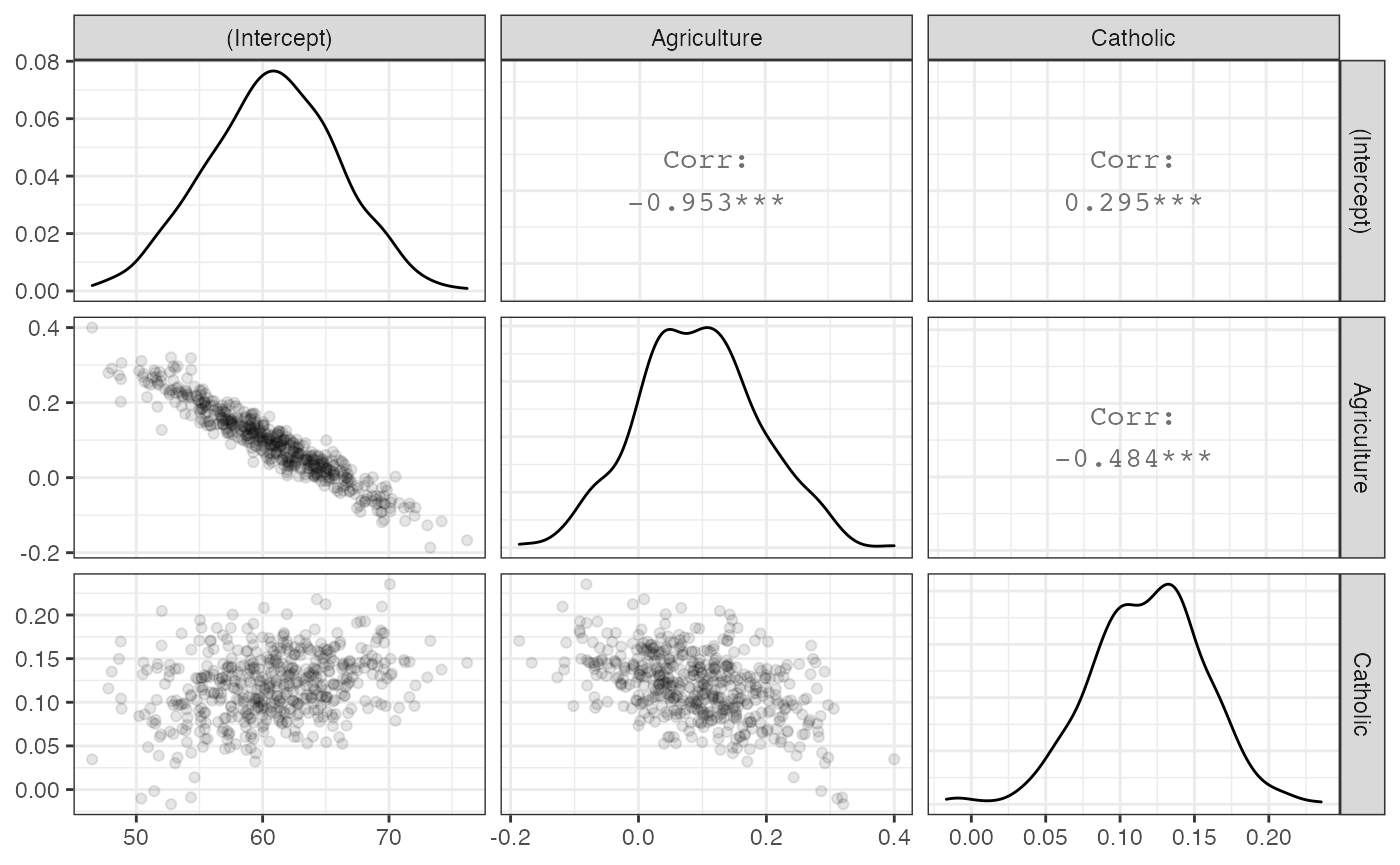
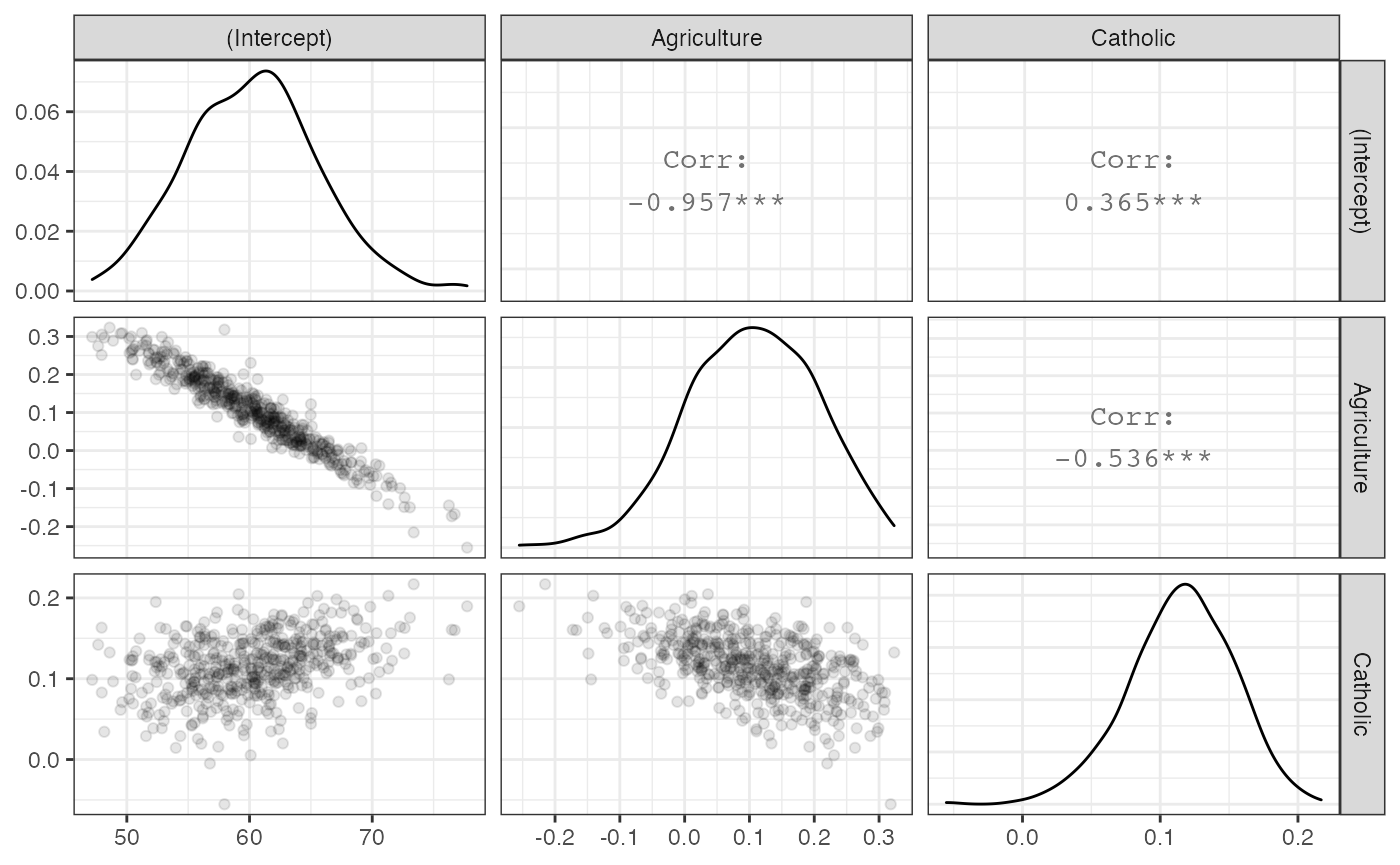
Deploying to gh-pages from  @ 2c4844f8e60dca6c3dedb688495c3db30d2a4b23 🚀

diff --git a/r/estimatr/articles/estimatr-in-the-tidyverse.html b/r/estimatr/articles/estimatr-in-the-tidyverse.html
@@ -269,72 +269,72 @@
 <tr class="odd">
 <td align="left">1</td>
 <td align="left">(Intercept)</td>
-<td align="right">55.5927085</td>
-<td align="right">4.7973099</td>
-<td align="right">11.588309</td>
+<td align="right">54.2903706</td>
+<td align="right">5.0394793</td>
+<td align="right">10.773012</td>
 <td align="right">0.0000000</td>
-<td align="right">45.9243657</td>
-<td align="right">65.2610513</td>
+<td align="right">44.1339673</td>
+<td align="right">64.4467739</td>
 <td align="right">44</td>
 <td align="left">Fertility</td>
 </tr>
 <tr class="even">
 <td align="left">1</td>
 <td align="left">Catholic</td>
-<td align="right">0.1299811</td>
-<td align="right">0.0455386</td>
-<td align="right">2.854308</td>
-<td align="right">0.0065536</td>
-<td align="right">0.0382041</td>
-<td align="right">0.2217580</td>
+<td align="right">0.0727428</td>
+<td align="right">0.0406680</td>
+<td align="right">1.788700</td>
+<td align="right">0.0805493</td>
+<td align="right">-0.0092181</td>
+<td align="right">0.1547038</td>
 <td align="right">44</td>
 <td align="left">Fertility</td>
 </tr>
 <tr class="odd">
 <td align="left">1</td>
 <td align="left">Agriculture</td>
-<td align="right">0.1747347</td>
-<td align="right">0.1115723</td>
-<td align="right">1.566112</td>
-<td align="right">0.1244870</td>
-<td align="right">-0.0501245</td>
-<td align="right">0.3995938</td>
+<td align="right">0.2281144</td>
+<td align="right">0.0944632</td>
+<td align="right">2.414849</td>
+<td align="right">0.0199655</td>
+<td align="right">0.0377363</td>
+<td align="right">0.4184924</td>
 <td align="right">44</td>
 <td align="left">Fertility</td>
 </tr>
 <tr class="even">
 <td align="left">2</td>
 <td align="left">(Intercept)</td>
-<td align="right">57.9421876</td>
-<td align="right">4.3359906</td>
-<td align="right">13.363079</td>
+<td align="right">57.4584574</td>
+<td align="right">7.2761495</td>
+<td align="right">7.896822</td>
 <td align="right">0.0000000</td>
-<td align="right">49.2035727</td>
-<td align="right">66.6808025</td>
+<td align="right">42.7943416</td>
+<td align="right">72.1225732</td>
 <td align="right">44</td>
 <td align="left">Fertility</td>
 </tr>
 <tr class="odd">
 <td align="left">2</td>
 <td align="left">Catholic</td>
-<td align="right">0.1036886</td>
-<td align="right">0.0477308</td>
-<td align="right">2.172360</td>
-<td align="right">0.0352585</td>
-<td align="right">0.0074934</td>
-<td align="right">0.1998838</td>
+<td align="right">0.0856506</td>
+<td align="right">0.0369014</td>
+<td align="right">2.321070</td>
+<td align="right">0.0249788</td>
+<td align="right">0.0112808</td>
+<td align="right">0.1600204</td>
 <td align="right">44</td>
 <td align="left">Fertility</td>
 </tr>
 <tr class="even">
 <td align="left">2</td>
 <td align="left">Agriculture</td>
-<td align="right">0.1481195</td>
-<td align="right">0.0908214</td>
-<td align="right">1.630887</td>
-<td align="right">0.1100526</td>
-<td align="right">-0.0349190</td>
-<td align="right">0.3311580</td>
+<td align="right">0.1846238</td>
+<td align="right">0.1260026</td>
+<td align="right">1.465237</td>
+<td align="right">0.1499659</td>
+<td align="right">-0.0693179</td>
+<td align="right">0.4385654</td>
 <td align="right">44</td>
 <td align="left">Fertility</td>
 </tr>
@@ -348,9 +348,9 @@
 <pre><code>## # A tibble: 3 x 2
 ##   term        boot_se
 ##   &lt;chr&gt;         &lt;dbl&gt;
-## 1 (Intercept)  5.12  
-## 2 Agriculture  0.0947
-## 3 Catholic     0.0379</code></pre>
+## 1 (Intercept)  5.33  
+## 2 Agriculture  0.0996
+## 3 Catholic     0.0383</code></pre>
 <div class="sourceCode" id="cb15"><pre class="downlit sourceCode r">
 <code class="sourceCode R"><span class="co"># To visualize the sampling distribution</span>
 

diff --git a/r/estimatr/articles/absorbing-fixed-effects.html b/r/estimatr/articles/absorbing-fixed-effects.html
@@ -188,10 +188,10 @@
   times <span class="op">=</span> <span class="fl">50</span>
 <span class="op">)</span></code></pre></div>
 <pre><code>## Unit: milliseconds
-##             expr       min        lq      mean    median        uq      max
-##  base + sandwich 170.33535 177.78642 190.99450 179.34218 184.97113 303.8595
-##        lm_robust  76.47186  80.80404  83.70886  83.42362  86.03747 101.2495
-##  lm_robust + fes  49.19664  51.11910  56.10953  53.12578  55.07551 198.0309
+##             expr       min        lq      mean    median        uq       max
+##  base + sandwich 171.95225 176.26690 189.24904 180.95375 185.09321 298.91406
+##        lm_robust  77.10855  81.33866  83.33946  82.73984  85.32893  92.70169
+##  lm_robust + fes  49.03205  50.57525  55.91680  52.59921  54.87493 190.30313
 ##  neval cld
 ##     50   c
 ##     50  b 
@@ -218,10 +218,10 @@
   times <span class="op">=</span> <span class="fl">50</span>
 <span class="op">)</span></code></pre></div>
 <pre><code>## Unit: milliseconds
-##             expr        min         lq      mean     median        uq       max
-##  base + sandwich 171.837017 177.821249 189.37734 179.290040 184.28873 302.52191
-##        lm_robust  61.759890  64.576942  68.23188  66.752824  70.15860  93.11533
-##  lm_robust + fes   7.502471   7.926026  12.03615   8.619727  11.86815 136.32575
+##             expr       min         lq      mean     median         uq       max
+##  base + sandwich 173.42815 175.931398 185.15102 177.707915 181.118427 302.35291
+##        lm_robust  62.09654  64.680792  66.73024  66.596688  68.549825  74.30874
+##  lm_robust + fes   7.63140   8.103336  11.73219   8.769001   9.262373 131.70817
 ##  neval cld
 ##     50   c
 ##     50  b 

diff --git a/r/estimatr/reference/starprep.html b/r/estimatr/reference/starprep.html
@@ -236,7 +236,7 @@ the preferred, robust statistics.</p>
           omit.stat <span class='op'>=</span> <span class='st'>"f"</span><span class='op'>)</span>
 </div><div class='output co'>#&gt; 
 #&gt; % Table created by stargazer v.5.2.2 by Marek Hlavac, Harvard University. E-mail: hlavac at fas.harvard.edu
-#&gt; % Date and time: Sun, Dec 06, 2020 - 00:39:29
+#&gt; % Date and time: Sun, Dec 06, 2020 - 01:04:04
 #&gt; \begin{table}[!htbp] \centering 
 #&gt;   \caption{} 
 #&gt;   \label{} 
@@ -276,7 +276,7 @@ the preferred, robust statistics.</p>
           omit.stat <span class='op'>=</span> <span class='st'>"f"</span><span class='op'>)</span>
 </div><div class='output co'>#&gt; 
 #&gt; % Table created by stargazer v.5.2.2 by Marek Hlavac, Harvard University. E-mail: hlavac at fas.harvard.edu
-#&gt; % Date and time: Sun, Dec 06, 2020 - 00:39:29
+#&gt; % Date and time: Sun, Dec 06, 2020 - 01:04:04
 #&gt; \begin{table}[!htbp] \centering 
 #&gt;   \caption{} 
 #&gt;   \label{} 
@@ -313,7 +313,7 @@ the preferred, robust statistics.</p>
           omit.stat <span class='op'>=</span> <span class='st'>"f"</span><span class='op'>)</span>
 </div><div class='output co'>#&gt; 
 #&gt; % Table created by stargazer v.5.2.2 by Marek Hlavac, Harvard University. E-mail: hlavac at fas.harvard.edu
-#&gt; % Date and time: Sun, Dec 06, 2020 - 00:39:29
+#&gt; % Date and time: Sun, Dec 06, 2020 - 01:04:04
 #&gt; \begin{table}[!htbp] \centering 
 #&gt;   \caption{} 
 #&gt;   \label{} 

diff --git a/r/estimatr/articles/regression-tables.html b/r/estimatr/articles/regression-tables.html
@@ -256,7 +256,7 @@
 <span class="va">fit</span> <span class="op">&lt;-</span> <span class="fu"><a href="../reference/lm_robust.html">lm_robust</a></span><span class="op">(</span><span class="va">mpg</span> <span class="op">~</span> <span class="va">disp</span>, data <span class="op">=</span> <span class="va">mtcars</span><span class="op">)</span>
 <span class="va">fit</span> <span class="op">%&gt;%</span> <span class="va">tidy</span> <span class="op">%&gt;%</span> <span class="fu"><a href="https://rdrr.io/pkg/xtable/man/xtable.html">xtable</a></span><span class="op">(</span><span class="op">)</span></code></pre></div>
 <pre><code>## % latex table generated in R 4.0.3 by xtable 1.8-4 package
-## % Sun Dec  6 00:40:37 2020
+## % Sun Dec  6 01:06:04 2020
 ## \begin{table}[ht]
 ## \centering
 ## \begin{tabular}{rlrrrrrrrl}
